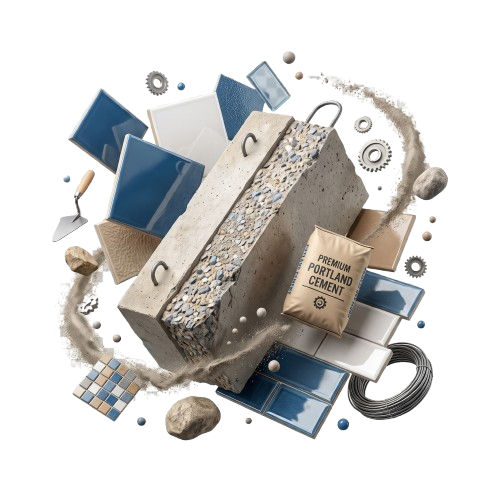
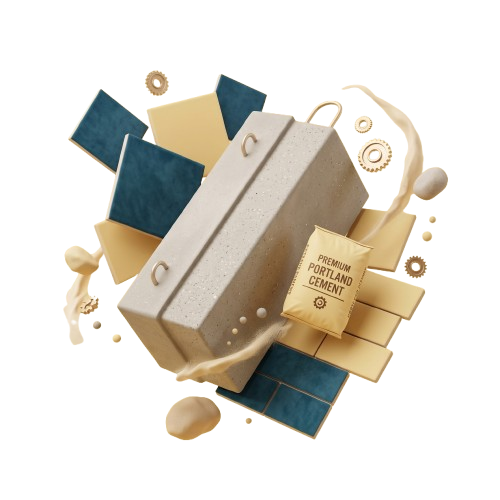
fix: update Construction, Cement & Tiles category image with cement.png

Changed region(s): [[0.09, 0.09, 0.9, 0.9], [0.12, 0.18, 0.24, 0.3], [0.27, 0.84, 0.3, 0.87]]

diff --git a/src/views/LandingPage.tsx b/src/views/LandingPage.tsx
@@ -39,7 +39,7 @@ import steelImg from "../assets/categories/steel.png";
 import packagingImg from "../assets/categories/packaging.png";
 import solarImg from "../assets/categories/contarct.png";
 import pharmaImg from "../assets/categories/pharama.png";
-import constructionImg from "../assets/categories/construction.png";
+import constructionImg from "../assets/categories/cement.png";
 import textileImg from "../assets/categories/textile.png";
 
 // Section definition for Smooth Scroll & Interactive Navigator HUD
